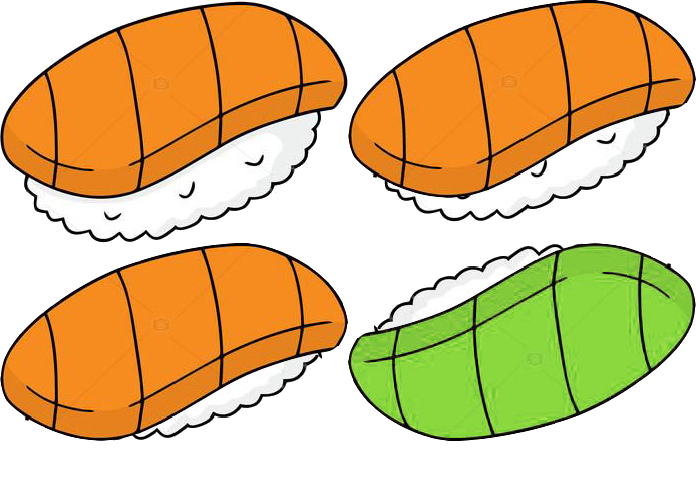
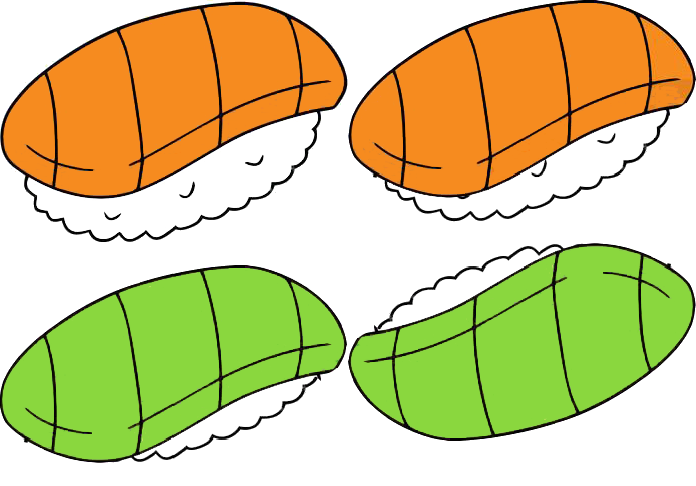
altered money making and sprites
money spawns from fishes and if fish is really hungry, they turn green

diff --git a/Assets/Scripts/FishManager.cs b/Assets/Scripts/FishManager.cs
@@ -18,6 +18,9 @@ public class FishManager : MonoBehaviour
     public string[] consumables;
     public Sprite[] sprite;
     public GameObject nextStage;
+    public GameObject bronze;
+    public GameObject silver;
+    public GameObject gold;
 
     private float age = 0;
     private float coolDown = 1;
@@ -35,6 +38,8 @@ public class FishManager : MonoBehaviour
     private Rigidbody2D rigidbody2D;
     private List<GameObject> foodList = new List<GameObject>();
     private GameObject closestFood;
+
+    float spawnTimer;
 
     void Start()
     {
@@ -124,6 +129,133 @@ public class FishManager : MonoBehaviour
             {
                 Destroy(gameObject);
             }
+        }
+
+        //Temp until coin spawner stuff is in
+        spawnTimer -= Time.deltaTime;
+        if (spawnTimer <= 0.0f)
+        {
+            SpawnCoin(new Vector3(this.gameObject.transform.position.x + Random.Range(0.5f, 0.5f), this.gameObject.transform.position.y + Random.Range(-0.5f, 0.5f), 0.0f));
+            spawnTimer = Random.Range(5.0f, 10.0f);
+        }
+    }
+
+    public void SpawnCoin(Vector3 position)
+    {
+        int randVal = Random.Range(0, 100);
+
+        if (fishManager.gameObject.CompareTag("BabyFish"))
+        {
+            if (randVal < 80)
+                randVal = 0;
+            else if (randVal < 100)
+                randVal = 1;
+            else
+                randVal = 2;
+        }
+        else if (fishManager.gameObject.CompareTag("ToddlerFish"))
+        {
+            if (randVal < 70)
+                randVal = 0;
+            else if (randVal < 95)
+                randVal = 1;
+            else
+                randVal = 2;
+        }
+        else if (fishManager.gameObject.CompareTag("Fish"))
+        {
+            if (randVal < 60)
+                randVal = 0;
+            else if (randVal < 90)
+                randVal = 1;
+            else
+                randVal = 2;
+        }
+        else if (fishManager.gameObject.CompareTag("AdultFish"))
+        {
+            if (randVal < 50)
+                randVal = 0;
+            else if (randVal < 85)
+                randVal = 1;
+            else
+                randVal = 2;
+        }
+        else
+        {
+            if (randVal < 30)
+                randVal = 0;
+            else if (randVal < 75)
+                randVal = 1;
+            else
+                randVal = 2;
+        }
+
+        switch (randVal)
+        {
+            case 0:
+                Instantiate(bronze, position, Quaternion.identity);
+                break;
+            case 1:
+                Instantiate(silver, position, Quaternion.identity);
+                break;
+            case 2:
+                Instantiate(gold, position, Quaternion.identity);
+                break;
+        }
+    }
+
+    public void SpawnCoin(Vector3 position, Transform parentTransform)
+    {
+        int randVal = Random.Range(0, 100);
+
+        if (fishManager.name == "SalmonB")
+        {
+            if (randVal < 70)
+                randVal = 0;
+            else if (randVal < 90)
+                randVal = 1;
+            else
+                randVal = 2;
+        }
+        else if (fishManager.name == "SalmonY")
+        {
+            if (randVal < 55)
+                randVal = 0;
+            else if (randVal < 85)
+                randVal = 1;
+            else
+                randVal = 2;
+        }
+        else if (fishManager.name == "SalmonA")
+        {
+            if (randVal < 40)
+                randVal = 0;
+            else if (randVal < 80)
+                randVal = 1;
+            else
+                randVal = 2;
+        }
+        else
+        {
+            if (randVal < 20)
+                randVal = 0;
+            else if (randVal < 70)
+                randVal = 1;
+            else
+                randVal = 2;
+        }
+
+        switch (randVal)
+        {
+            case 0:
+                Instantiate(bronze, position, Quaternion.identity);
+                break;
+            case 1:
+                Instantiate(silver, position, Quaternion.identity);
+                break;
+            case 2:
+                Instantiate(gold, position, Quaternion.identity);
+                break;
         }
     }
 

diff --git a/Assets/Scripts/GameManager.cs b/Assets/Scripts/GameManager.cs
@@ -113,14 +113,6 @@ public class GameManager : MonoBehaviour
             }
             */
         }
-
-        //Temp until coin spawner stuff is in
-        spawnTimer -= Time.deltaTime;
-        if(spawnTimer <= 0.0f)
-        {
-            SpawnCoin(new Vector3(Random.Range(-7, 7), 2.0f, 0.0f));
-            spawnTimer = Random.Range(5.0f, 10.0f);
-        }
     }
 
     public void SpawnCoin(Vector3 position)
